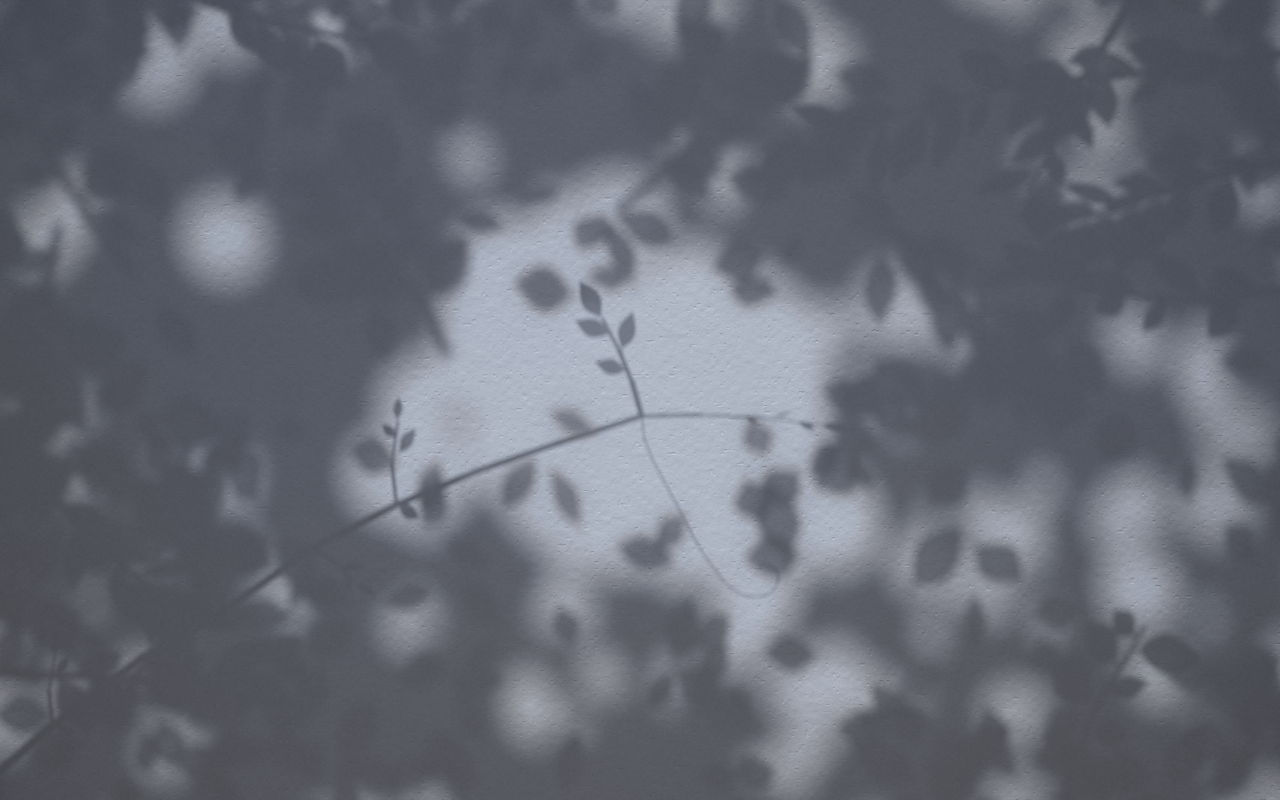
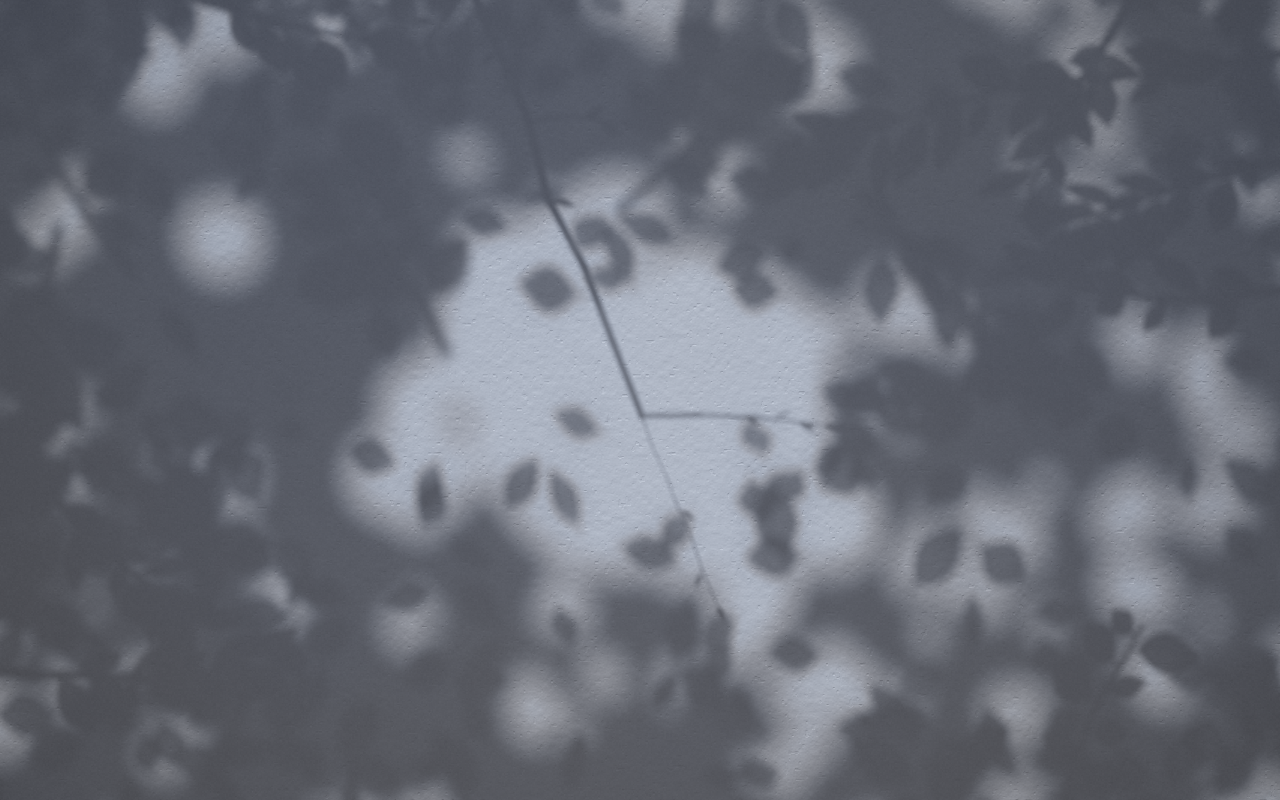
Komorebi Clock: the branch itself is the hour hand; leaves on the second twig; softer clock
The branch that reached in from the lower left is now the hour hand: it
reaches in from beyond the edge toward the hour and ends in the knot, where
the minute and second twigs grow. The separate hour twig is gone. The
second-hand twig carries a few small, round leaves. The clock layer is
defocused by about 3.4 CSS px on any screen (it was 2.7 device px), with 24
taps instead of 16. Store screenshots refreshed.

diff --git a/komorebi/extension/newtab.js b/komorebi/extension/newtab.js
@@ -305,7 +305,7 @@ uniform sampler2D uNear;    /* r: the vine and the clock */
 uniform vec3 uViewC;        /* wall units at full resolution: origin.xy, scale */
 uniform vec4 uRectN;        /* near map: x0, y0, 1/w, 1/h */
 uniform vec4 uSunN;         /* projected sun direction xy, elongation, - */
-uniform vec3 uRadN;         /* penumbra radius: clock and vine, -, - */
+uniform vec3 uRadN;         /* blur radius of the clock layer, -, - */
 ${NOISE}
 vec2 ntap(float i, float n, float rot){
   float r = sqrt((i + .5) / n);
@@ -318,8 +318,8 @@ float nearVis(){
   mat2 E = mat2(uSunN.xy * uSunN.z, vec2(-uSunN.y, uSunN.x));
   vec2 sc = uRectN.zw;
   float hd = 0.;             /* a fixed tap pattern: thin moving lines don't sparkle across a per-pixel noise */
-  for (int i = 0; i < 16; i++) hd += texture2D(uNear, uv + E * ntap(float(i), 16., .7) * uRadN.x * sc).r;
-  return 1. - hd / 16.;
+  for (int i = 0; i < 24; i++) hd += texture2D(uNear, uv + E * ntap(float(i), 24., .7) * uRadN.x * sc).r;
+  return 1. - hd / 24.;
 }
 void main(){
   vec2 uv = gl_FragCoord.xy / uRes;
@@ -557,7 +557,7 @@ function resize() {
 
   makeLightTarget();
   layoutBranches();
-  buildBearer();
+  buildHourBranch();
   buildMoreBranches();
   buildCanopy();
 
@@ -991,42 +991,53 @@ function emitLeaf3D(base, ang, tz, ll, wf, twist, opacity, shape) {
   emitLeaf(base, Ld.map(x => x * ll * 1.1), Wd.map(x => x * hw), opacity, shape);
 }
 
-/* The clock grows at the tip of a thin branch that reaches in from the lower
-   left, close to the wall. The branch's side twigs look much like the hands,
-   so the time hides among them; only the three shoots at the tip keep time. */
-let BEARER = null;
-function buildBearer() {
+/* The hour hand is the branch itself. It reaches in from beyond the edge,
+   close to the wall, and ends in the knot where the minute and second twigs
+   grow, so from the knot outward it points at the hour. Its side twigs look
+   much like the hands, so the time hides among them, but they keep clear of
+   the knot.                                                                 */
+let HOURB = null;
+function buildHourBranch() {
   const r = mulberry(909);
   const Rh = Math.min(0.31, halfW * 0.78) * 0.7;
-  const S = [-halfW - 0.06, -0.46], K = [PIVOT.x, PIVOT.y];
-  const C = [S[0] * 0.45 + K[0] * 0.55 - 0.02, S[1] * 0.3 + K[1] * 0.7 + 0.03];      /* a gentle arch */
-  const N = 8, nodes = [];
-  for (let i = 0; i <= N; i++) {
-    const u = i / N, v = 1 - u;
-    let x = v * v * S[0] + 2 * v * u * C[0] + u * u * K[0];
-    let y = v * v * S[1] + 2 * v * u * C[1] + u * u * K[1];
-    if (i > 0 && i < N) { const j = (r() - 0.5) * 0.018; x += j * 0.6; y += j; }  /* a little crooked at each node */
-    nodes.push([x, y, Z0 + 0.05 * (1 - u) * (1 - u)]);   /* near the wall at the tip, a little farther out at the edge */
+  /* nodes as (along, across) from the knot, in the hand's own frame */
+  const N = 22, nodes = [[0, 0]];
+  for (let i = 1; i <= N; i++) {
+    const u = i * 0.1;
+    nodes.push([u, 0.02 * u * u + (r() - 0.5) * 0.016 * Math.min(1, u / 0.35)]);   /* a slight arch, crooked at each node */
   }
-  const twigs = [];
-  for (let i = 1; i < N - 1; i++) {
-    const b = nodes[i], d = Math.hypot(b[0] - K[0], b[1] - K[1]);
-    if (d < Rh * 1.35) continue;                        /* the tip belongs to the hands */
-    const dir = Math.atan2(nodes[i + 1][1] - b[1], nodes[i + 1][0] - b[0]);
-    const side = i % 2 ? 1 : -1;
-    const off = d < Rh * 2.4 ? 0.95 + 0.5 * r() : 0.5 + 0.6 * r();   /* near the tip they lean back, away from the clock */
-    twigs.push({ i, ang: dir + side * off, len: (0.05 + 0.07 * r()) * (Rh / 0.217), nl: 2 + Math.floor(r() * 3), side, ph: r() * 50 });
+  const twigs = [], leaves = [];
+  for (let i = 3; i < N; i++) {
+    const [u, v] = nodes[i];
+    if (u < Rh * 1.4 || r() < 0.35) continue;          /* the knot belongs to the hands */
+    const side = twigs.length % 2 ? 1 : -1;
+    const off = u < Rh * 2.4 ? 0.95 + 0.5 * r() : 0.5 + 0.6 * r();   /* near the knot they stand out sideways */
+    const a = Math.PI + side * off, len = (0.05 + 0.07 * r()) * (Rh / 0.217);   /* growing toward the knot */
+    if (Math.hypot(u + Math.cos(a) * len, v + Math.sin(a) * len) < Rh * 1.25) continue;
+    twigs.push({ i, a, len, nl: 2 + Math.floor(r() * 3), side, ph: r() * 50 });
   }
-  BEARER = { nodes, twigs, Rh };
+  for (let i = 3; i < N; i += 2) if (nodes[i][0] >= Rh * 1.3) leaves.push({ i, side: i % 4 === 1 ? -1 : 1 });
+  HOURB = { nodes, twigs, leaves };
 }
-function emitBearer(t) {
-  const B = BEARER, n = B.nodes.length - 1;
-  /* the branch: thicker than any of the clock's shoots, thinning toward the tip */
-  for (let i = 0; i < n; i++) emitSeg(B.nodes[i], B.nodes[i + 1], 0.0060 - 0.0020 * i / (n - 1), 1);
-  const fl = flutterAt(-0.3);
+function emitHourBranch(frac, t) {
+  const B = HOURB, th = frac * Math.PI * 2;
+  const d = [Math.sin(th), Math.cos(th)], n = [d[1], -d[0]];        /* 12 o'clock is up, clockwise */
+  const W3 = (u, v) => [PIVOT.x + d[0] * u + n[0] * v, PIVOT.y + d[1] * u + n[1] * v, Z0 + 0.03 * Math.min(1, u * u)];
+  const inView = (p, m) => { const q = proj(p); return q[0] > -halfW - m && q[0] < halfW + m && q[1] > yBot - m && q[1] < 0.5 + m; };
+  const wa = a => Math.PI / 2 - th - a;               /* an angle in the hand's frame, as an angle on the wall */
+  /* the branch: thicker than either twig, thickening toward the edge, until its shadow leaves the wall */
+  let last = 0;
+  for (let i = 0; i < B.nodes.length - 1; i++) {
+    const b = W3(...B.nodes[i + 1]);
+    emitSeg(W3(...B.nodes[i]), b, 0.0050 + 0.0016 * Math.min(1, B.nodes[i][0] / 0.9), 1);
+    last = i + 1;
+    if (!inView(b, 0.05)) break;
+  }
+  const fl = flutterAt(PIVOT.x + d[0] * 0.5);
   for (const tw of B.twigs) {
-    const b = B.nodes[tw.i];
-    const a = tw.ang + fl * 0.04 * sn1(t * 0.5 + tw.ph);
+    const b = W3(...B.nodes[tw.i]);
+    if (tw.i > last || !inView(b, 0.15)) continue;
+    const a = wa(tw.a) + fl * 0.04 * sn1(t * 0.5 + tw.ph);
     const e = [b[0] + Math.cos(a) * tw.len, b[1] + Math.sin(a) * tw.len, b[2] + 0.01];
     const m = [(b[0] + e[0]) / 2 - Math.sin(a) * tw.len * 0.06, (b[1] + e[1]) / 2 + Math.cos(a) * tw.len * 0.06, b[2] + 0.005];
     emitSeg(b, m, 0.0028, 1); emitSeg(m, e, 0.0020, 1);
@@ -1034,17 +1045,16 @@ function emitBearer(t) {
       const s = 0.4 + 0.6 * (k + 1) / tw.nl;
       const p = [b[0] + (e[0] - b[0]) * s, b[1] + (e[1] - b[1]) * s, b[2] + 0.01 * s];
       const side = k === tw.nl - 1 ? 0 : (k % 2 ? 1 : -1) * tw.side;
-      const ll = 0.032 * (0.85 + 0.3 * ((k * 0.37 + tw.ph) % 1));     /* smaller than the hour hand's leaves */
+      const ll = 0.032 * (0.85 + 0.3 * ((k * 0.37 + tw.ph) % 1));
       emitLeaf3D(p, a + side * 0.72 + fl * 0.12 * sn1(t * 1.25 + tw.ph + k), 0.22 * (side || 0.6), ll, 0.8,
                  0.25 * (side || 1) + fl * 0.5 * sn1(t * (0.55 + 0.08 * k) + tw.ph * 1.7), 0.96, tw.ph * 0.173 + k * 0.29);
     }
   }
   /* a few leaves straight off the branch */
-  for (let i = 1; i < n - 1; i += 2) {
-    const b = B.nodes[i];
-    if (Math.hypot(b[0] - PIVOT.x, b[1] - PIVOT.y) < B.Rh * 1.3) continue;
-    const dir = Math.atan2(B.nodes[i + 1][1] - b[1], B.nodes[i + 1][0] - b[0]), side = i % 4 === 1 ? -1 : 1;
-    emitLeaf3D(b, dir + side * 1.0, 0.2 * side, 0.034, 0.85, 0.3 * side + fl * 0.5 * sn1(t * 0.7 + i), 0.95, 0.4 + i * 0.13);
+  for (const lf of B.leaves) {
+    const b = W3(...B.nodes[lf.i]);
+    if (lf.i > last || !inView(b, 0.1)) continue;
+    emitLeaf3D(b, wa(Math.PI) + lf.side * 1.0, 0.2 * lf.side, 0.034, 0.85, 0.3 * lf.side + fl * 0.5 * sn1(t * 0.7 + lf.i), 0.95, 0.4 + lf.i * 0.13);
   }
 }
 
@@ -1053,12 +1063,22 @@ const SEC_KINKS = [0.05, -0.07, 0.04, -0.05, 0.06, -0.03];
 function emitSecondTwig(frac, len, t, px) {
   let a = frac * Math.PI * 2 + 0.01 * sn1(t * 0.6 + 4.2);
   let p = [PIVOT.x, PIVOT.y, Z0];
-  const n = SEC_KINKS.length, L0 = len / n;
+  const n = SEC_KINKS.length, L0 = len / n, pts = [p], dirs = [];
   for (let i = 0; i < n; i++) {
     const f = (i + 1) / n;
     const d = a + SEC_KINKS[i];                         /* each node turns it a few degrees */
     const q = [p[0] + Math.sin(d) * L0, p[1] + Math.cos(d) * L0, Z0 + 0.016 * f];
     emitSeg(p, q, Math.max(0.0013 - 0.0005 * f, 1.0 * px), 1); p = q;
+    pts.push(q); dirs.push(Math.PI / 2 - d);            /* direction in the wall's x/y angle convention */
+  }
+  /* a few small leaves, rounder than the minute hand's willow leaves */
+  const fl = flutterAt(PIVOT.x), ll = 0.036 * (len / 0.341);
+  const SEC_LEAVES = [[3, 1], [5, -1], [6, 0]];         /* node index, side (0: at the tip) */
+  for (let k = 0; k < SEC_LEAVES.length; k++) {
+    const [ni, side] = SEC_LEAVES[k];
+    const ang = dirs[ni - 1] + side * 0.7 + fl * 0.12 * sn1(t * 1.1 + k * 2.3);
+    emitLeaf3D(pts[ni], ang, 0.12 * (side || 0.5), ll * (side ? 0.9 : 1.05), 0.75,
+               0.2 * (side || 1) + fl * 0.4 * sn1(t * 0.6 + k * 1.7), 0.95, 0.24 + 0.01 * k);
   }
 }
 
@@ -1150,13 +1170,12 @@ function emitBranch(B, leafArr, wArr, jArr, zBase, zTip, aK, th0, th1) {
   }
 }
 
-/* The clock: a short stem grows out of the wall (its shadow is a little gnomon);
-   from its knot a short twig with broad leaves points at the hour and a long
-   slender one at the minute. No numerals, no dial.                           */
+/* The clock: the knot at the tip of the hour branch. A long slender twig grows
+   from it toward the minute, and the thinnest one toward the second.
+   No numerals, no dial.                                                      */
 const PIVOT = { x: 0, y: -0.01 };
 const Z0 = 0.014;                            /* the knot at the branch tip, about 2 cm out from the wall */
 /* leaves along a twig: s along the stem (0..1), side, angle off the stem, length, width */
-const HOUR_LEAVES = [[0.45, 1, 0.85, 0.060, 0.90], [0.65, -1, 0.75, 0.068, 0.95], [0.84, 1, 0.60, 0.072, 0.92], [1.0, 0, 0.0, 0.080, 0.95]];
 const MIN_LEAVES = [[0.58, -1, 0.65, 0.036, 0.50], [0.74, 1, 0.58, 0.040, 0.55], [0.88, -1, 0.50, 0.042, 0.55], [1.0, 0, 0.0, 0.048, 0.60]];
 function handFracs() {
   const d = new Date();
@@ -1171,9 +1190,8 @@ function handFracs() {
   const sec = d.getSeconds() + d.getMilliseconds() / 1000;      /* the second hand always follows the real seconds */
   return { h: ((hh % 12) + mm / 60 + ss / 3600) / 12, m: (mm + ss / 60) / 60, s: sec / 60 };
 }
-function emitHand(frac, len, bend, lift, th0, th1, leaves, t, sway, seed, scale, flat) {
-  /* flat: how squarely the leaves face the wall (the hour hand's broad leaves must read as broad at any sun) */
-  const tilt = flat ? 0.12 : 0.28, turn = flat ? 0.12 : 0.35, flutterTurn = flat ? 0.3 : 0.55;
+function emitHand(frac, len, bend, lift, th0, th1, leaves, t, sway, seed, scale) {
+  const tilt = 0.28, turn = 0.35, flutterTurn = 0.55;
   const th = frac * Math.PI * 2 + sway;
   const dx = Math.sin(th), dy = Math.cos(th), nx = dy, ny = -dx;     /* 12 o'clock is up, clockwise */
   const K = [PIVOT.x, PIVOT.y, Z0];
@@ -1325,10 +1343,9 @@ function frame(now) {
   const Rh = R * 0.7;                          /* the sprig is smaller than the clearing it sits in */
   const fr = handFracs();
   const sw = wind.mid.x * 1.1 + 0.6 * wind.far.x;
-  emitHand(fr.h, Rh * 0.62, 0.05, 0.010, 0.0040, 0.0026, HOUR_LEAVES, wt, sw * 0.8, 3.1, Rh / 0.31, true);
+  emitHourBranch(fr.h, wt);
   emitHand(fr.m, Rh, -0.035, 0.016, 0.0034, 0.0018, MIN_LEAVES, wt, sw, 11.7, Rh / 0.31);
   emitSecondTwig(fr.s, Rh * 1.1, wt, (0.5 - yBot) / H);
-  emitBearer(wt);
   const handQ = nearQ;
   poseBranch(branchA, wt, 0, 0, leafA, leafWA, jointA);
   poseBranch(branchB, wt, 0, 0, leafB, leafWB, jointB);
@@ -1444,7 +1461,7 @@ function frame(now) {
   gl.uniform3f(C.u('uViewC'), 0.5 * W, (cssH - 0.5 * layoutH) * (H / cssH), layoutH * (H / cssH));
   gl.uniform4f(C.u('uRectN'), occRect[0], occRect[1], 1 / occRect[2], 1 / occRect[3]);
   gl.uniform4f(C.u('uSunN'), sd[0], sd[1], 1 / sz, 0);
-  gl.uniform3f(C.u('uRadN'), Math.hypot(penum(Z0 + 0.01), lens * 1.8), 0, 0);   /* the clock sits in the same soft focus as the rest */
+  gl.uniform3f(C.u('uRadN'), Math.hypot(penum(Z0 + 0.01), 3.4 / layoutH), 0, 0);   /* the clock out of focus by about 3.4 CSS px */
   gl.uniform2f(C.u('uGlow'), L.glow, 0.20 + 0.10 * (1 - L.si));
   drawTri();
 

diff --git a/komorebi/README.md b/komorebi/README.md
@@ -1,8 +1,8 @@
 # Komorebi Clock New Tab
 
-A Chrome extension that replaces the new tab page with sunlight falling through leaves onto a plaster wall. It is a clock without numerals: the time is told by the shadow of a sprig.
+A Chrome extension that replaces the new tab page with sunlight falling through leaves onto a plaster wall. It is a clock without numerals: the time is told by the shadow of a branch and its twigs.
 
-Everything on the wall is a shadow of something in front of it, cast by a sun that moves with the local hour. A far canopy (5 to 9 m from the wall) is an almost closed roof of leaves; the light through its gaps lands as soft, round pinhole images of the sun. A nearer layer of leaves (1.5 to 3 m) casts blurred leaf shapes, and a dozen branches hang between 0.9 and 3 m from the wall, so their shadows are soft. A thin branch reaches in from the lower left, close to the wall, and ends in the clearing. At its tip three shoots tell the time: a short twig with broad, pointed leaves is the hour hand, a long slender one with narrow willow leaves is the minute hand, and the thinnest bare twig sweeps the seconds. The branch's side twigs look much like them, so the time hides among them until you look for it. The farther something is from the wall, the softer its shadow, because the sun is a disc rather than a point; a slight lens defocus softens everything a little more, and the brightest edges of the dappled light split faintly into colour. Each minute the shadow of a small cloud passes over. The light follows the local hour: pink-orange at dawn, warm white in the morning, bright and neutral at noon, golden with long ellipses in the late afternoon, deep orange at dusk, and cool blue moonlight at night.
+Everything on the wall is a shadow of something in front of it, cast by a sun that moves with the local hour. A far canopy (5 to 9 m from the wall) is an almost closed roof of leaves; the light through its gaps lands as soft, round pinhole images of the sun. A nearer layer of leaves (1.5 to 3 m) casts blurred leaf shapes, and a dozen branches hang between 0.9 and 3 m from the wall, so their shadows are soft. A branch reaches in from beyond the edge, close to the wall, and ends in the clearing. The branch itself is the hour hand: from its tip outward it points at the hour. Two twigs grow from the tip: a long slender one with narrow willow leaves is the minute hand, and the thinnest, with a few small leaves, sweeps the seconds. The branch's side twigs look much like them, so the time hides among them until you look for it. The farther something is from the wall, the softer its shadow, because the sun is a disc rather than a point; a slight lens defocus softens everything a little more, and the brightest edges of the dappled light split faintly into colour. Each minute the shadow of a small cloud passes over. The light follows the local hour: pink-orange at dawn, warm white in the morning, bright and neutral at noon, golden with long ellipses in the late afternoon, deep orange at dusk, and cool blue moonlight at night.
 
 ![screenshot](store/screenshot_1280x800_a.png)
 
